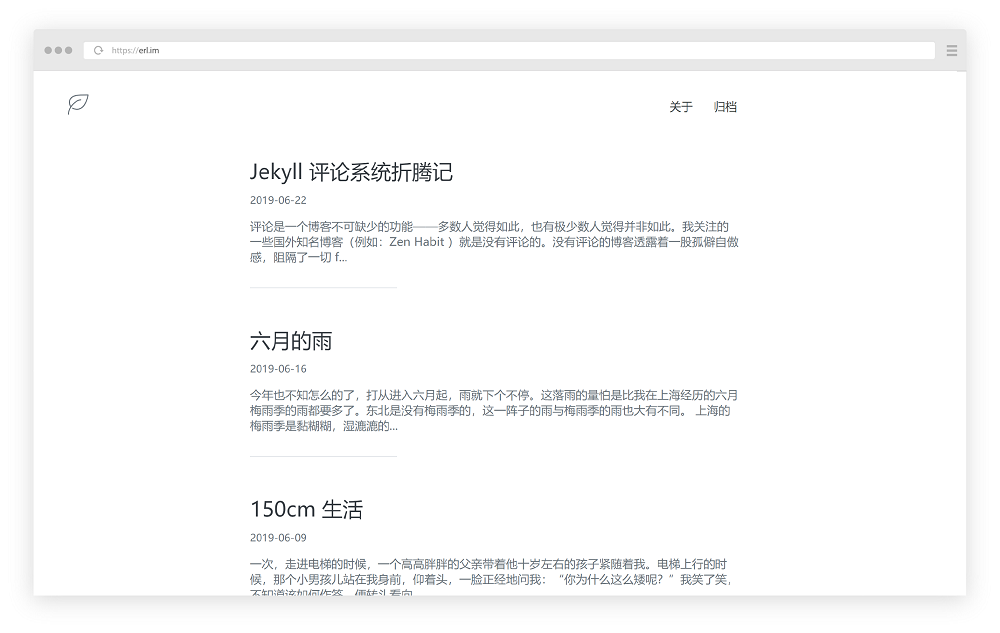
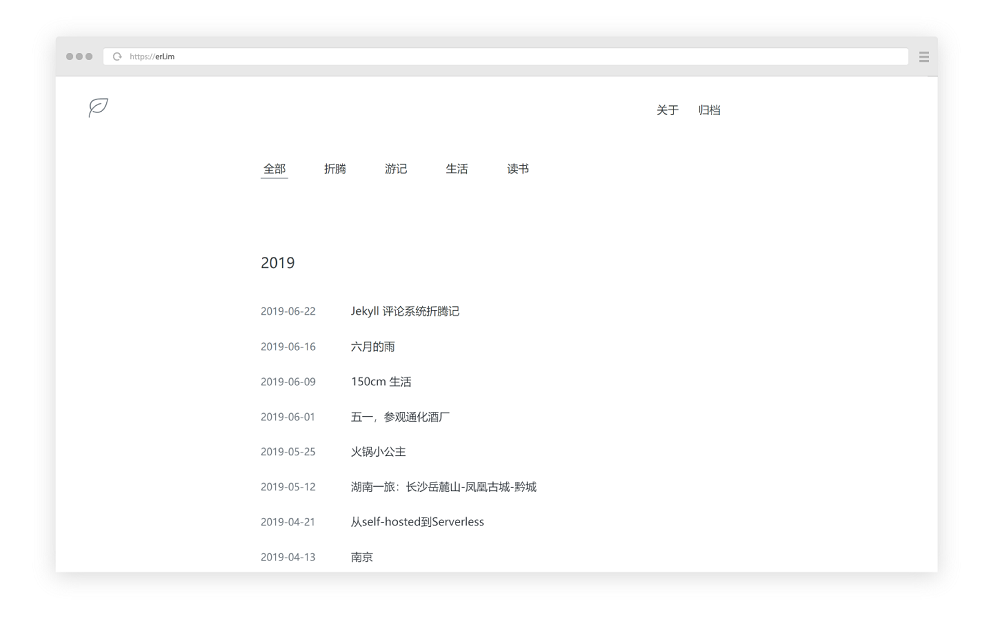
add usages of theme

diff --git a/docs/settings.md b/docs/settings.md
@@ -1,0 +1,77 @@
+# Settings
+
+A complete theme setting in your  `_config.yml` may seem like this:
+
+```yml
+title: Your Site Title
+description: The description of your site.
+email: your-email@address.com
+
+author: Your name #  Default is your site title.
+
+# Your social accounts.
+social:
+  github: github_username
+  twitter: twitter_username
+  facebook: facebook_username
+  instagram: instagram_username
+  linkedin: linkedin_username
+  weibo: weibo_username
+
+# Theme Settings
+
+# Your site's logo. Will be shown on the left top of your page.
+logo: /img/logo.svg
+# If the images of our blog are strored in an external cloud. You can use the jekyll-img-prefix plugin and set your images' base url here.
+img_prefix: https://your-img-cdn.com
+# The rss link of your blog.
+rss: "/feed.xml"
+
+# The followings are settings for displays of your blog.
+theme_setting:
+  # The slides count in the slides layout. Default is 4.
+  slides_count: 5
+  # The ← back url on the top of your post page. Default is your site's home page.
+  blog_page: "blog/index.md"
+  # The url on your name on the bottom of your post and page. Default is your site's home page.
+  about_page: "about.md"
+  #  The url of the menu icon(which has three black lines). Willl be shown on the slides/book/chapter layouts It won't be shown if blank.
+  archive_page: "archive.md"
+  # The nav links on the top right of home/page/post/blog layout. You can set a local page(by setting a layout's path) or and external link ( both title and url are requied) here.
+  nav_pages:
+    - "about.md"
+    -
+      title: "External Link Title"
+      url: "https://your-external-link.com"
+  # Every default value in the following settings is false. You can set them globally here or seperatly in a single post/page/chapter.
+  code: true # Code highlight.
+  math: true # Mathjax
+  mermaid: true # Mermaid
+  #  Locales of this theme.
+  lang:
+    category_all: All # The first tag in the categories bar in the blog layout. By clicking it all of your posts will be shown. Default is 'All'.
+    blog_title: Blog # The text of ← back url on the top of the post layout.  Default is 'Home'.
+    # The locales of the comment controls.
+    comment:
+      user: "昵称"
+      email: "邮箱"
+      url: "链接"
+      message: "说点什么吧..."
+      reply: "回复"
+
+head_code: |
+  <!-- Extra codes in the head of your site pages. You can add your Google Analysis codes here! -->
+
+# The settings of comments.
+comment:
+  enabled: true
+  # The external url of your comments (See Staticman).
+  postUrl:  https://api.staticman.net/v2/connect/GITHUB-USERNAME/GITHUB-REPOSITORY
+# The settings of local smileys used in comments. The jekyll-smiley plugin is required.
+smiley:
+  enabled: true
+  dir: img/smileys
+
+```
+
+Your can download the demo `_config.yml` file [here](/config.yml)

diff --git a/docs/books.md b/docs/books.md
@@ -1,0 +1,69 @@
+# Books
+
+I like writing novels.  The theme is designed to show my multiple novels.  `Gitbook` is a wonderful tool to make a single book, but not many. So I made a Jekyll plugin to simulate `Gitbook` to generate multiple books, which can be combined well with my blog.
+
+The function is not useful for everyone, so I didn't make it a dependency of the theme. If you are interested, you can add the plugin in your `Gemfile`.
+
+```ruby
+gem 'jekyll-books'
+```
+
+## How to use the plugin?
+
+There are two ways to add a book(or a document):
+
+### Local Books
+
+Create a directory named `_books` in your root path. The generator will read all of the directories in it and each directory is a book. For example, if you want to create a book named `Persephone`, you should:
+
+- Create a directory named `persephone` in the `_books` dir;
+- Create a `SUMMARY.md` in `_books/persephone`;
+- Create a `index.md` in `_books/persephone`;
+- Create other files the `_books/persephone`.
+
+`index.md` is the font page of your book. You should set the title, start and end date of your book, a thumbnail in its front matter. The `markdown` should looks like this:
+
+```markdown
+---
+title: Persephone #The title of your book
+start: 2018 #The year you start to write this book, default is the end year.
+end: 2019 #The year you finished this book, default is the current year.
+img: /img/persehone.png #The cover of this book, which will be shown in the home slides and the book index page.
+---
+Your book introduction here!
+```
+
+`SUMMARY.md` is the catalog of your book. All of the chapters and their relationships should be defined here. It is similar to the SUMMARY of Gitbook.
+
+```markdown
+* [Volume 1](v1.md)
+	* [Chapter 1](1-1.md)
+	* [Chapter 2](1-2.md)
+* [Volume 2](v2.md)
+	* [Chapter 1](2-1.md)
+	* [Chapter 2](2-2.md)
+```
+
+### External Books
+
+You can also add external links of your books. Just create a `books.yml` file in the dir of  `_data`.
+
+```yml
+-
+	title: Persephone
+	start: 2018
+	end: 2019
+	img: /img/persephone.png
+	url: www.yourexternalsite.com/persephone #It can be an external link.
+-
+	title: Blog
+	start: 2018
+	url: /blog/ #Or a relative path.
+```
+They can be shown with the `home` layout or the `archive` layout.
+
+## Layouts for `jekyll-books`
+
+If you want to use `jekyll-books` plugin without the `jekyll-theme-persephone`, your should at least have two layouts. One `book` layout for the index page of a book and a `chapter` layout for every chapter.
+
+In theme Persephone, you can use layout `slides` or layout `archive` to make a index page of all of your pages.

diff --git a/README.md b/README.md
@@ -12,17 +12,17 @@ To experiment with this code, add some sample content and run `bundle exec jekyl
 
 ## Demo
 
-| ![blog layout](/screenshots/blog.png) | ![list layout](/screenshots/list.png) |
+| ![home layout](/screenshots/home.png) | ![blog layout](/screenshots/blog.png) |
 | -- | -- |
 | `layout: home` [Demo](https://en.erl.im) | `layout: blog` [Demo](https://erl.im/blog) |
 | ![post layout](/screenshots/post.png) | ![page layout](/screenshots/page.png) |
 | `layout: post` [Demo](https://erl.im/the-jekyll-comment-system) | `layout: page` [Demo](https://erl.im/about) |
-| ![archive layout](/screenshots/archive.png)      | ![home layout](/screenshots/home.png) |
+| ![archive layout](/screenshots/archive.png)      | ![slides layout](/screenshots/slides.png) |
 | `layout: archive` [Demo](https://erl.im/archive) | <strong style="color: red">*</strong> `layout: slides` [Demo](https://erl.im) |
 | ![book layout](/screenshots/book.png) | ![chapter layout](/screenshots/chapter.png) |
 | <strong style="color: red">*</strong> `layout: book` [Demo](https://erl.im/corner) | <strong style="color: red">*</strong> `layout: chapter` [Demo](https://erl.im/corner/1) |
 
-The layout with red <strong style="color: red">*</strong> relied on a jekyll books generator plugin: [`jekyll-books`](https://github.com/erlzhang/jekyll-books)
+The layout with red * relied on a jekyll books generator plugin: [`jekyll-books`](https://github.com/erlzhang/jekyll-books)
 
 ## Installation
 
@@ -48,7 +48,9 @@ Or install it yourself as:
 
 ## Usage
 
-TODO: Write usage instructions here. Describe your available layouts, includes, sass and/or assets.
+- [Settings](/docs/settings.md)
+- [Layouts](/docs/layouts.md)
+- [`jekyll-books` generator](/docs/books.md)
 
 ## Contributing
 

diff --git a/docs/layouts.md b/docs/layouts.md
@@ -1,0 +1,36 @@
+# Home Layout
+
+The `home` layout is designed to be a index page for your blog. Pagination plugins (  both `jekyll-paginate` and `jekyll-paginate-v2` ) are supported.
+
+# Blog Layout
+
+The `blog` layout is designed to be an archive page for a blog. All of your blog posts will be grouped by categories and published years and displayed in a single page.
+
+# Archive Layout
+
+It is another alternative for your blog as an index page or archive page. But it is designed to be a books' archive page (about books).
+
+By default, the page will show all of your posts. You can make it as your books archive page by adding the followings in the page's fronter matters.
+
+```yml
+pages: books
+```
+
+# Post Layout and Page Layout
+
+As the names show, they are default layouts for your posts and pages.
+
+# Slides Layout
+
+I used it in the front page of [my blog](https://erl.im) to show my recent books. By default, it will show the newest 4 published books. You can change the slides size in the `theme_setting` in `_config.yml`.
+
+It can't be used without the `jekyll-books` plugin.
+
+```yml
+theme_setting:
+  slides_size: 5
+```
+
+# Book Layout and Chapter Layout
+
+The default layout for you book index page and it's chapters. They can't be used without the `jekyll-books` plugin.
